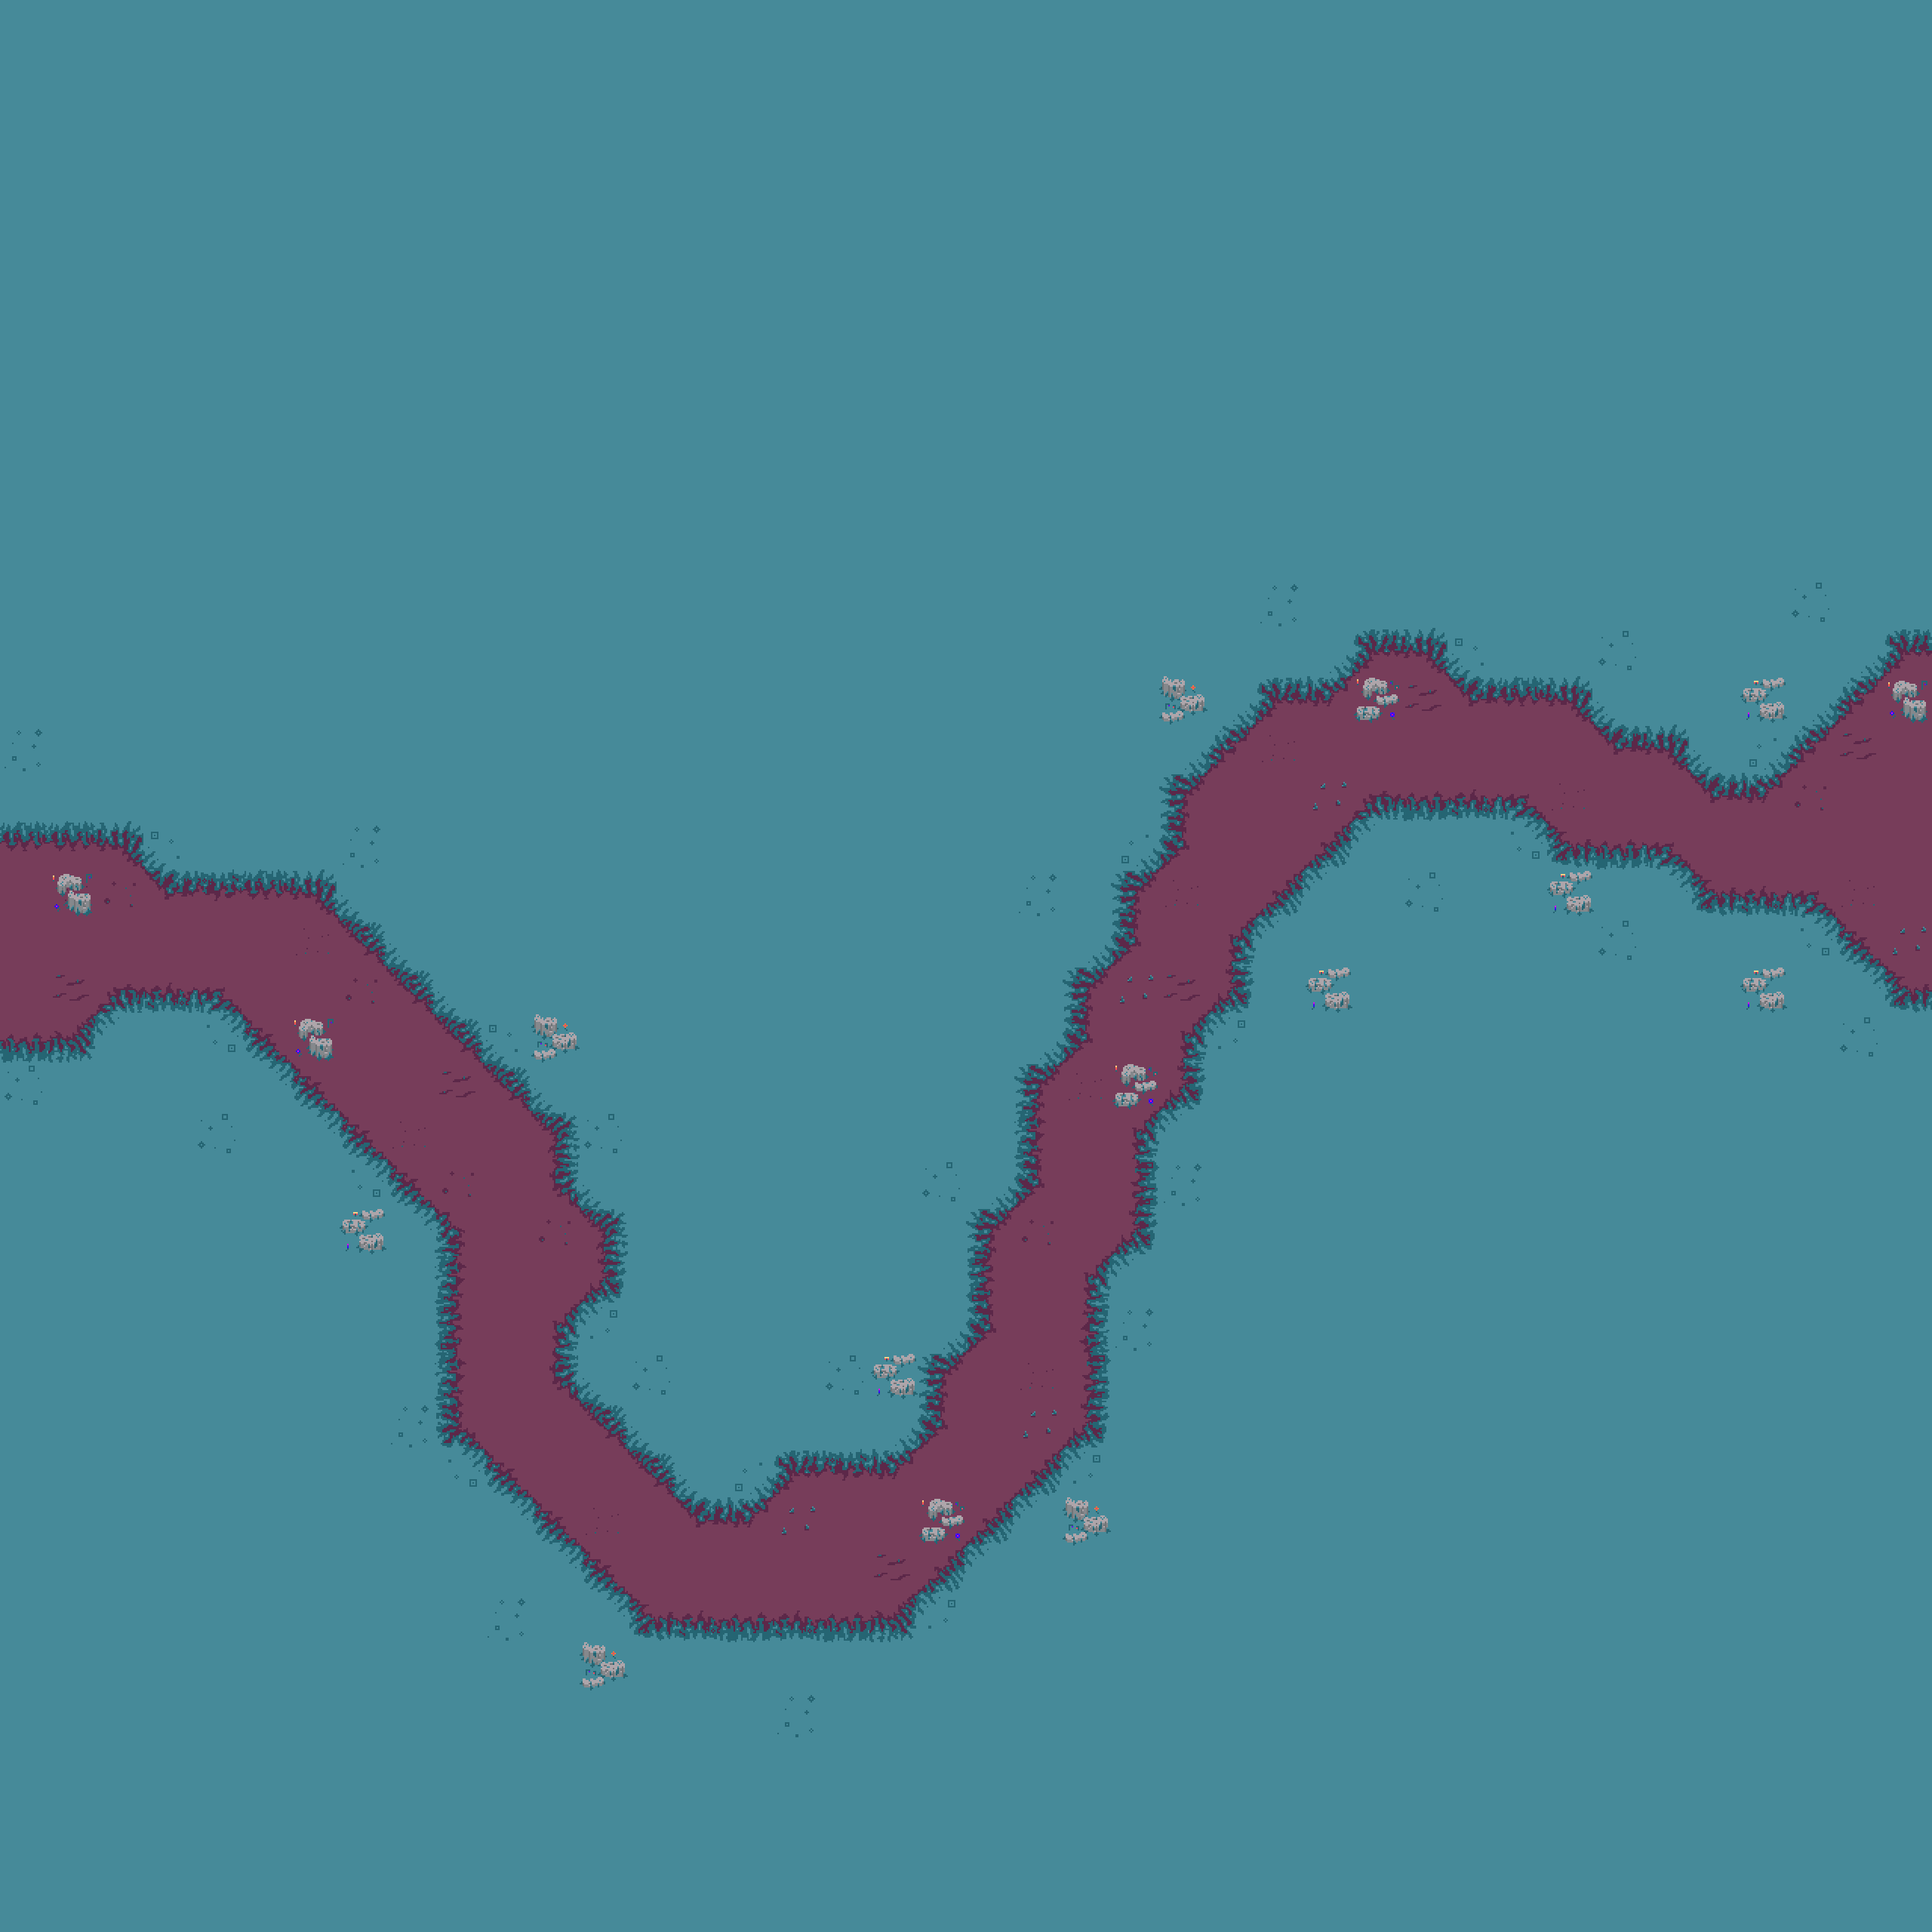
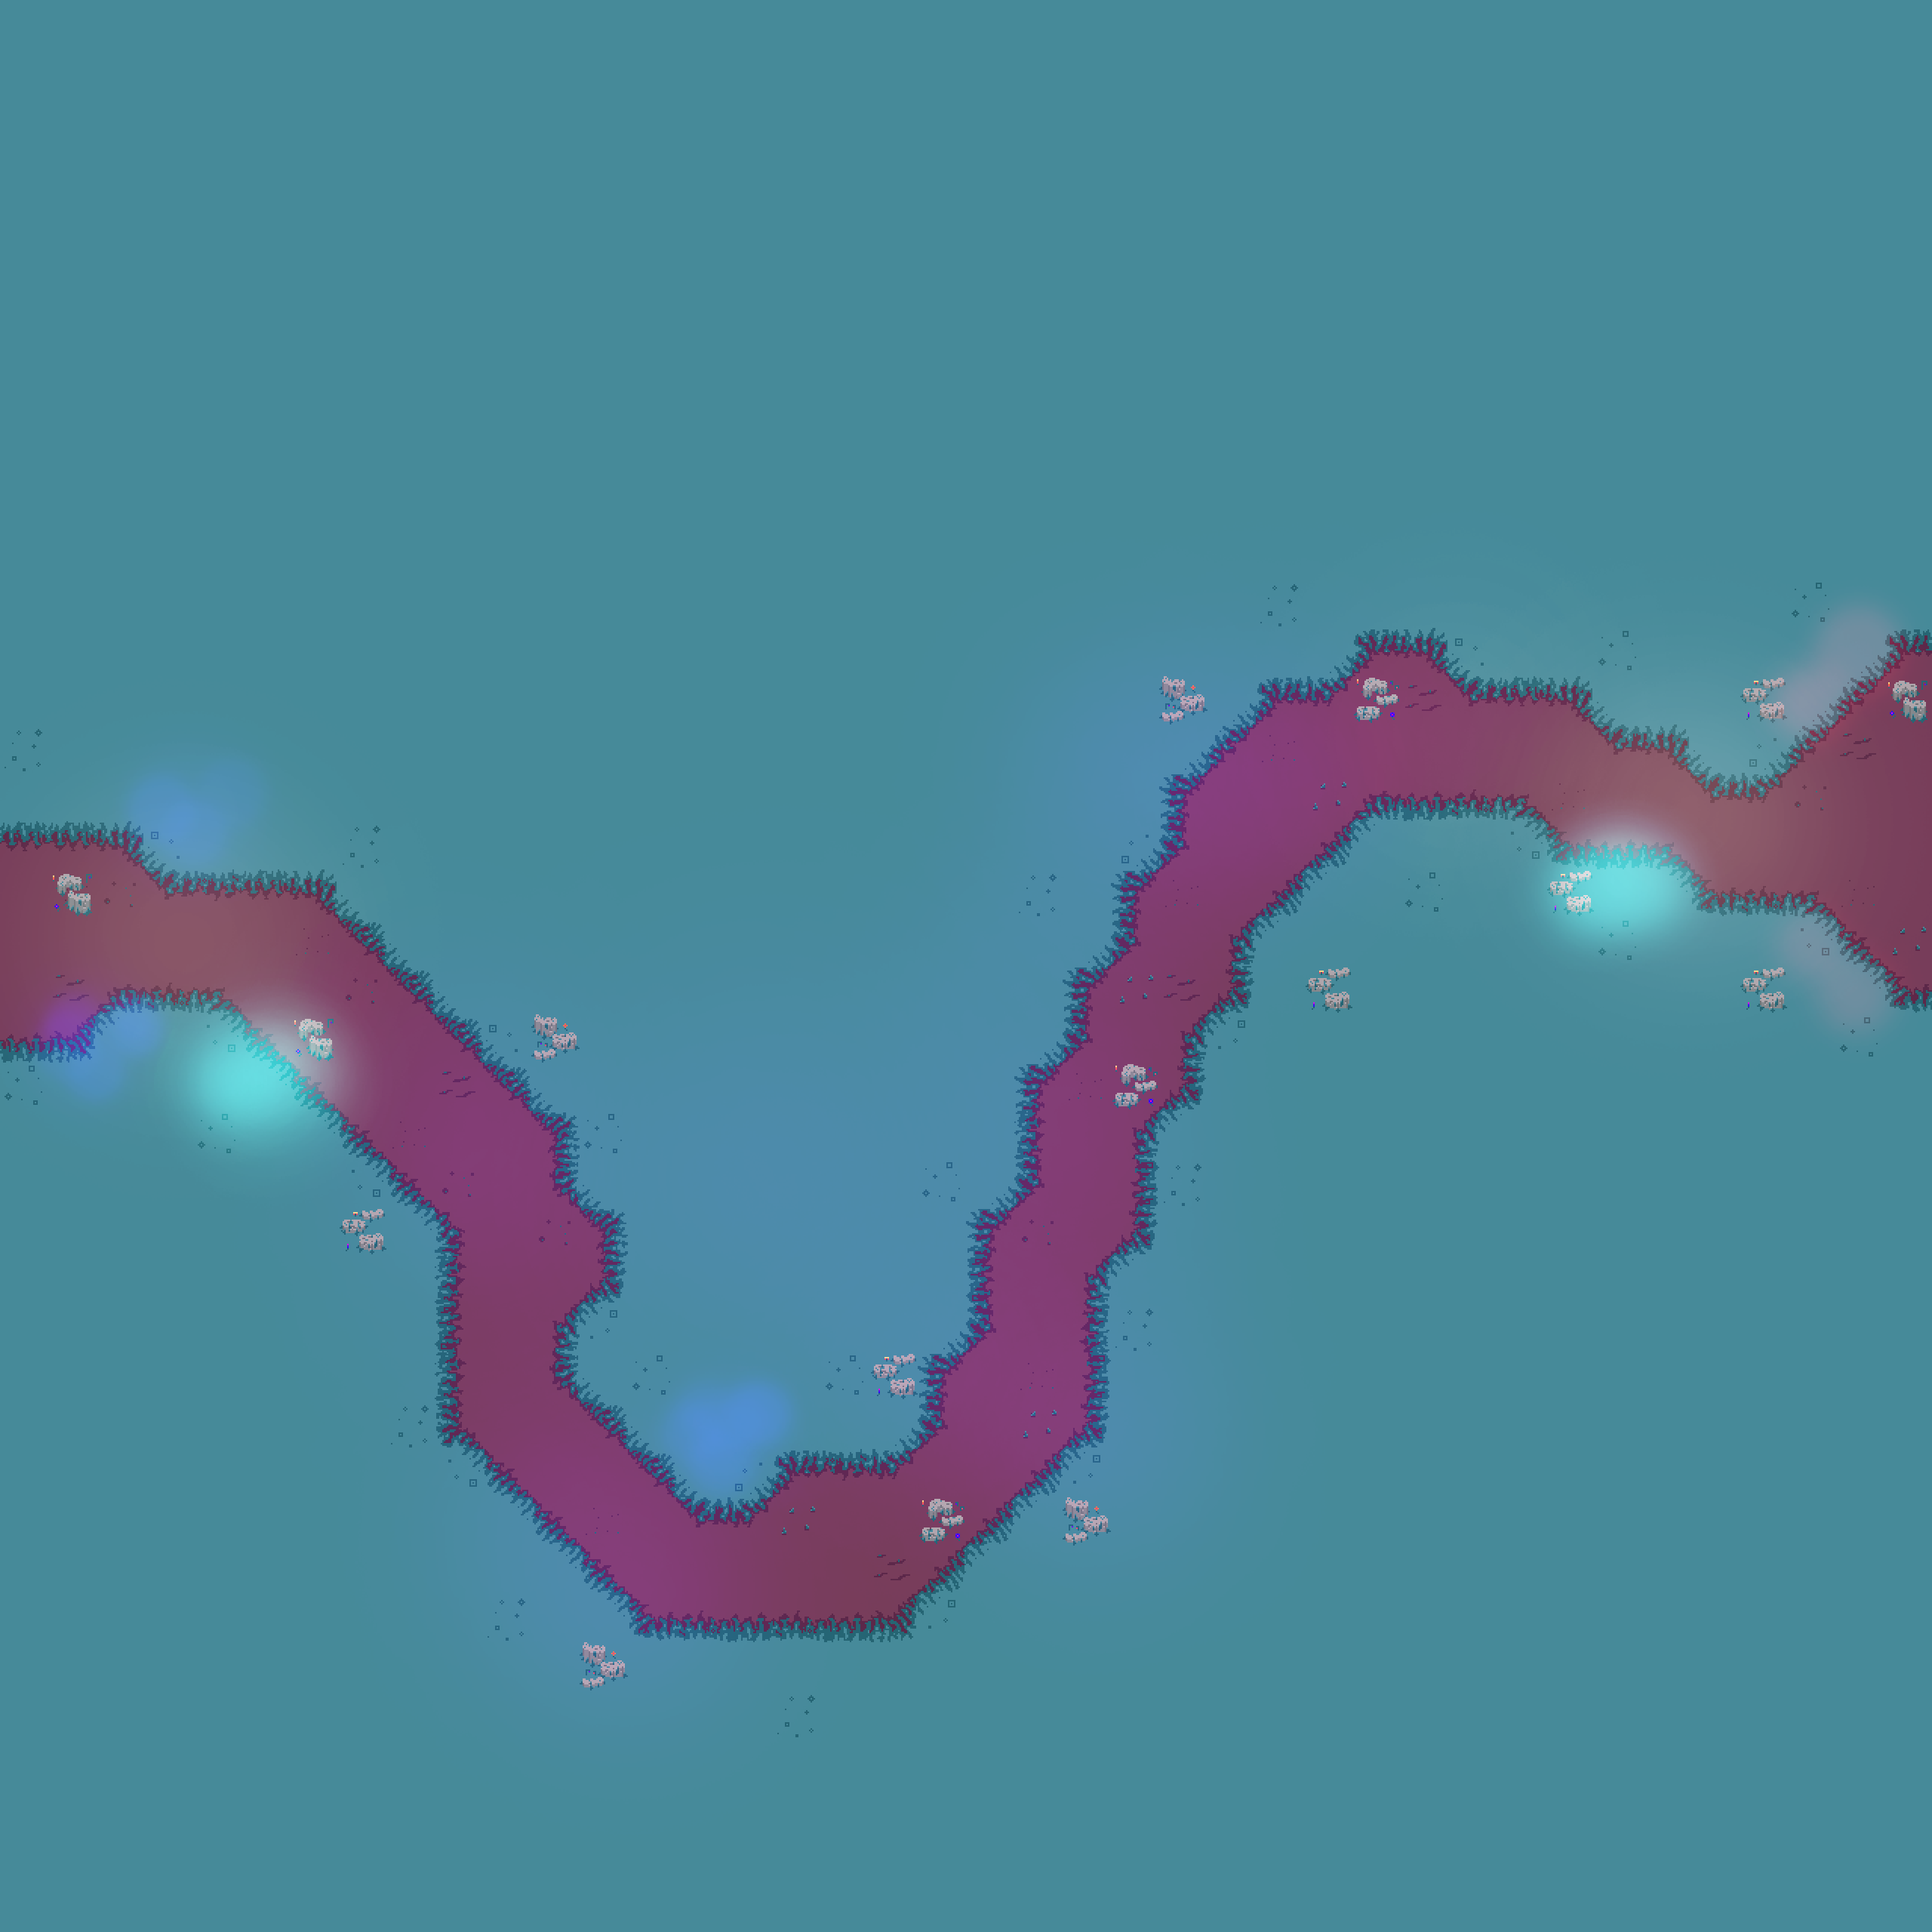
Added fifth map

diff --git a/src/WorldState.cpp b/src/WorldState.cpp
@@ -154,8 +154,8 @@ void WorldState::Start() {
     vector<string> m2 = { "map/2/ground.png", "map/2/rocks.png" };
     vector<string> m3 = { "map/3/ground.png", "map/3/rocks.png" };
     vector<string> m4 = { "map/4/ground.png", "map/4/rocks.png" };
-    vector<string> m5 = { "map/5/ground.png", "map/5/rocks.png" };
-    vector<string> m8 = { "map/9/ground.png", "map/8/rocks.png", "map/8/trees.png", "map/8/surroundings.png", "map/8/lighting.png", "map/8/vines.png" };
+    vector<string> m5 = { "map/5/ground.png", "map/5/rocks.png", "map/5/trees.png", "map/5/surroundings.png", "map/5/lighting.png", "map/5/view.png", "map/5/vines.png" };
+    vector<string> m8 = { "map/8/ground.png", "map/8/rocks.png", "map/8/trees.png", "map/8/surroundings.png", "map/8/lighting.png", "map/8/vines.png" };
     vector<string> m9 = { "map/9/ground.png", "map/9/rocks.png", "map/9/trees.png", "map/9/surroundings.png", "map/9/lighting.png", "map/9/view.png", "map/9/vine.png" };
     maps.emplace_back(m1, Map::MapDirection::DOWN, "map/1/collisionMap.txt", "map/1/terrainMap.txt");
     maps.emplace_back(m2, Map::MapDirection::DOWN, "map/2/collisionMap.txt", "map/2/terrainMap.txt");
